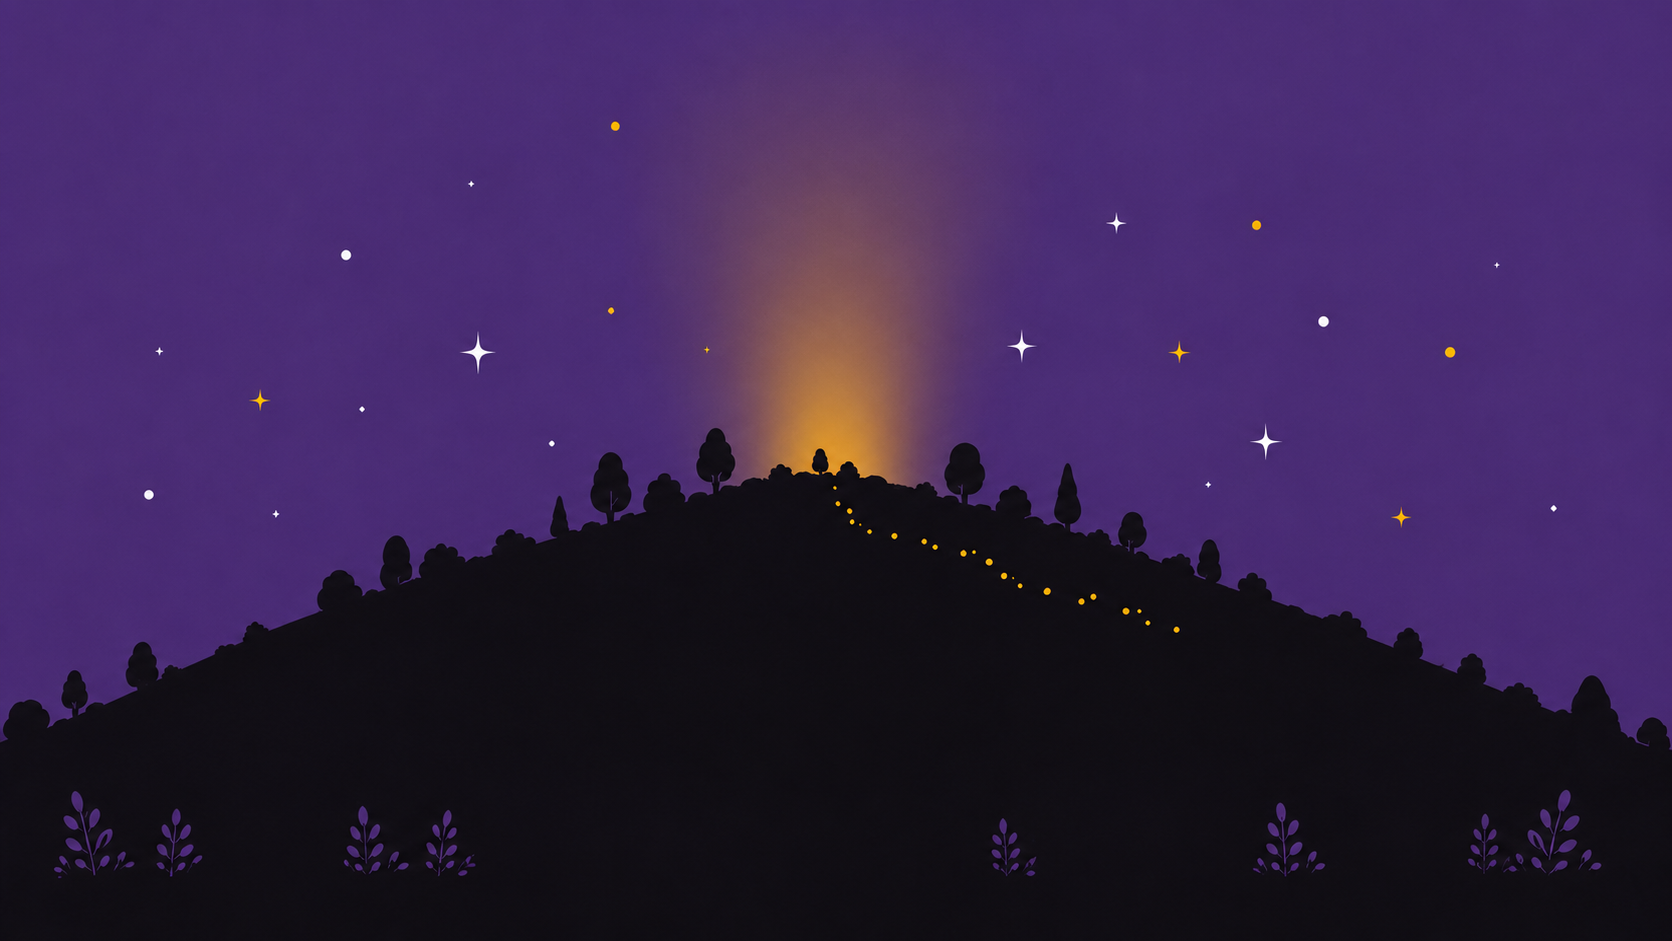
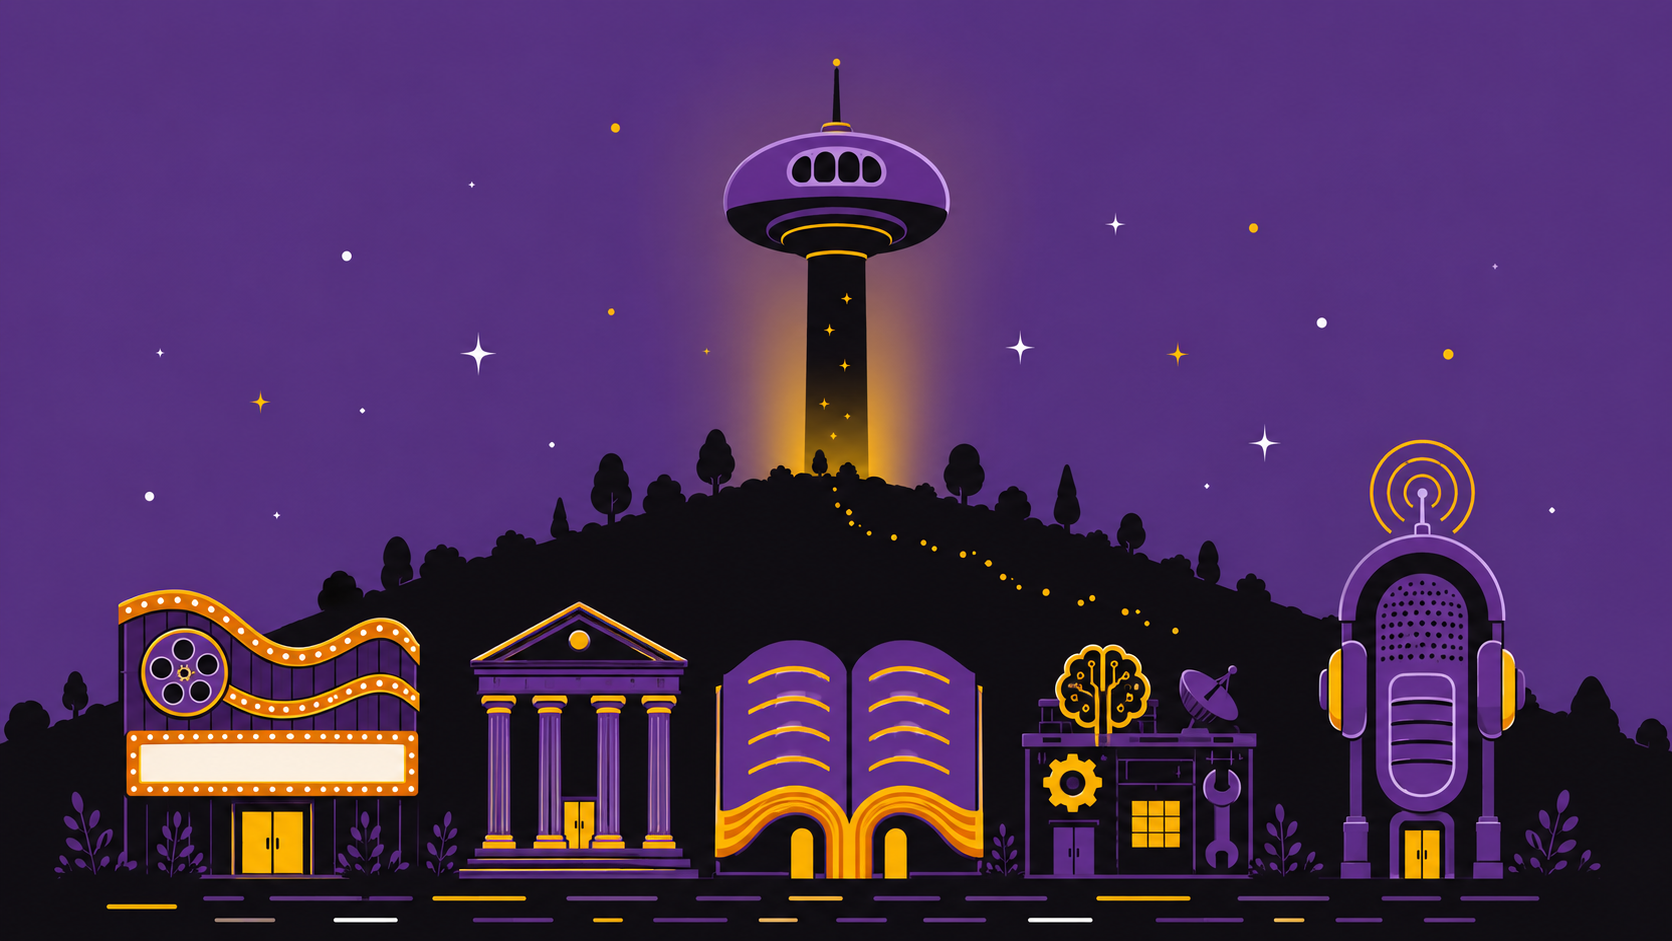
revert: back to single original hero image, invisible-hotspot mode
- Restored hero.png to the original (with all buildings included)
- Removed 6 transparent building PNGs (moved to scripts/originals/buildings/)
- Recalibrated hotspots to match original hero's building positions
- Hover: glow + floating label (no float, no individual building extraction)

diff --git a/src/lib/districts.ts b/src/lib/districts.ts
@@ -32,54 +32,51 @@ export type District = {
 
 export const districts: District[] = [
   // ─── Layout rule ──────────────────────────────────────────────────────
-  // Library is the centre (50%). Space tower sits directly above the library.
-  // Five ground buildings are spaced evenly: centres at 12 / 31 / 50 / 69 / 88
-  // (19% between adjacent centres). Cinema flush left, Pod flush right.
+  // Hotspots calibrated to the ORIGINAL hero image (1672x941) where each
+  // building is at a fixed position. Invisible-hotspot mode (no overlay PNGs)
+  // shows hover glow + label inside these click areas.
   // ─────────────────────────────────────────────────────────────────────
   {
     key: "cine",
     name: "Cinema",
     en: "Films",
     mark: "◐",
-    hotspot: { left: "4%", bottom: "2%", width: "16%", height: "32%" }, // centre 12
+    hotspot: { left: "4%", bottom: "13%", width: "13%", height: "25%" },
   },
   {
     key: "hall",
     name: "City Hall",
     en: "Civic & Policy",
     mark: "▲",
-    hotspot: { left: "24%", bottom: "2%", width: "14%", height: "33%" }, // centre 31
+    hotspot: { left: "20%", bottom: "12%", width: "8%", height: "26%" },
   },
   {
     key: "lib",
     name: "Library",
     en: "Books",
     mark: "❖",
-    hotspot: { left: "40%", bottom: "2%", width: "20%", height: "30%" }, // centre 50
+    hotspot: { left: "29%", bottom: "12%", width: "19%", height: "22%" },
   },
   {
     key: "ai",
     name: "AI Factory",
     en: "Tools & Workflows",
     mark: "✦",
-    hotspot: { left: "60%", bottom: "2%", width: "18%", height: "33%" }, // centre 69
+    hotspot: { left: "50%", bottom: "13%", width: "11%", height: "21%" },
   },
   {
     key: "space",
     name: "Spaceport",
     en: "Travel & Frontiers",
     mark: "✧",
-    // New self-contained tower-with-island image (932x897, aspect 1.04).
-    // Container aspect matched so image fills exactly. Bottom positioned so
-    // the island sits inside the hero's hill silhouette, masking the boundary.
-    hotspot: { left: "35%", bottom: "26%", width: "30%", height: "51%" },
+    hotspot: { left: "43%", bottom: "40%", width: "14%", height: "59%" },
   },
   {
     key: "pod",
     name: "Broadcast Tower",
     en: "Podcasts",
     mark: "◉",
-    hotspot: { left: "79.5%", bottom: "2%", width: "17%", height: "42%" }, // centre 88
+    hotspot: { left: "80%", bottom: "13%", width: "18%", height: "42%" },
   },
   // garden + fin have no hotspot in hero — only in city map
   {